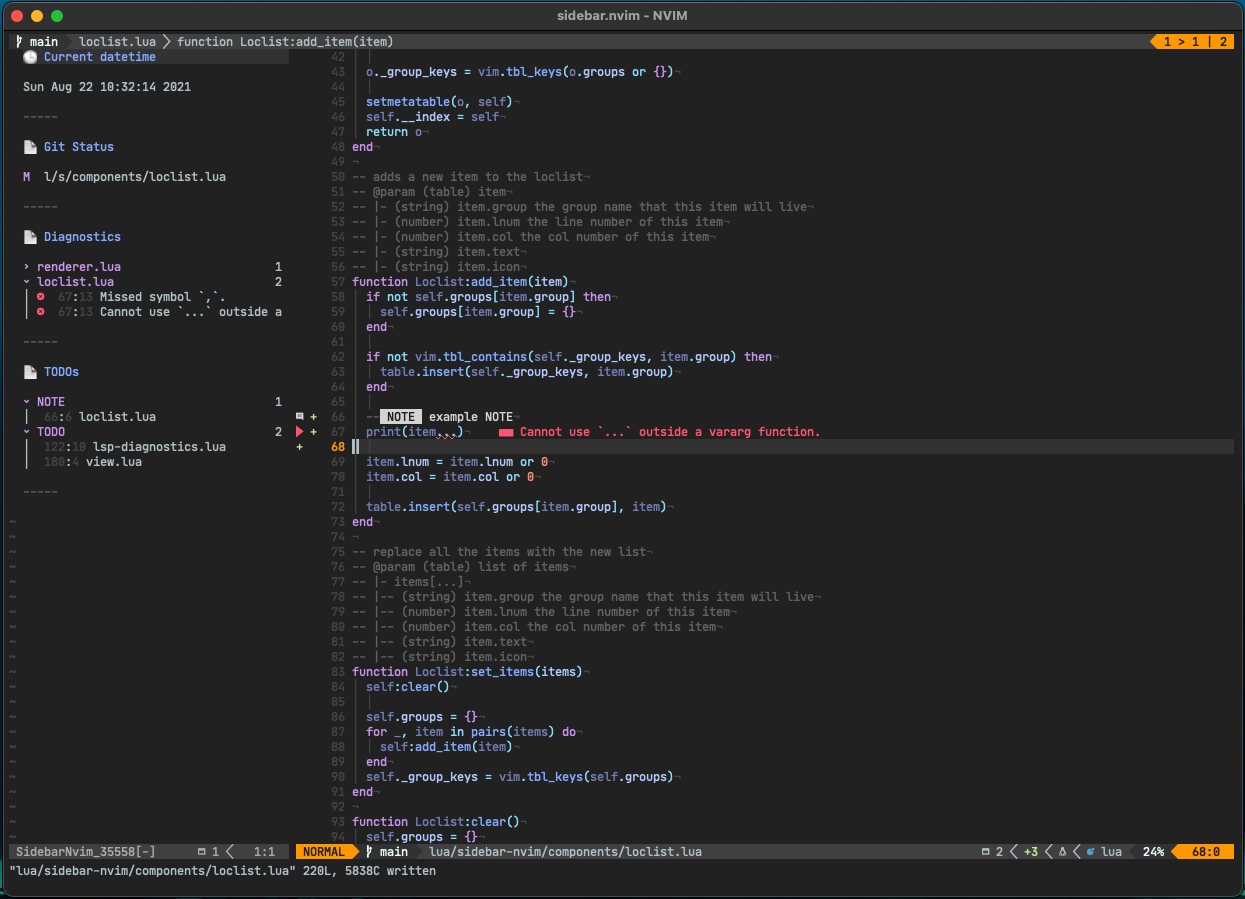
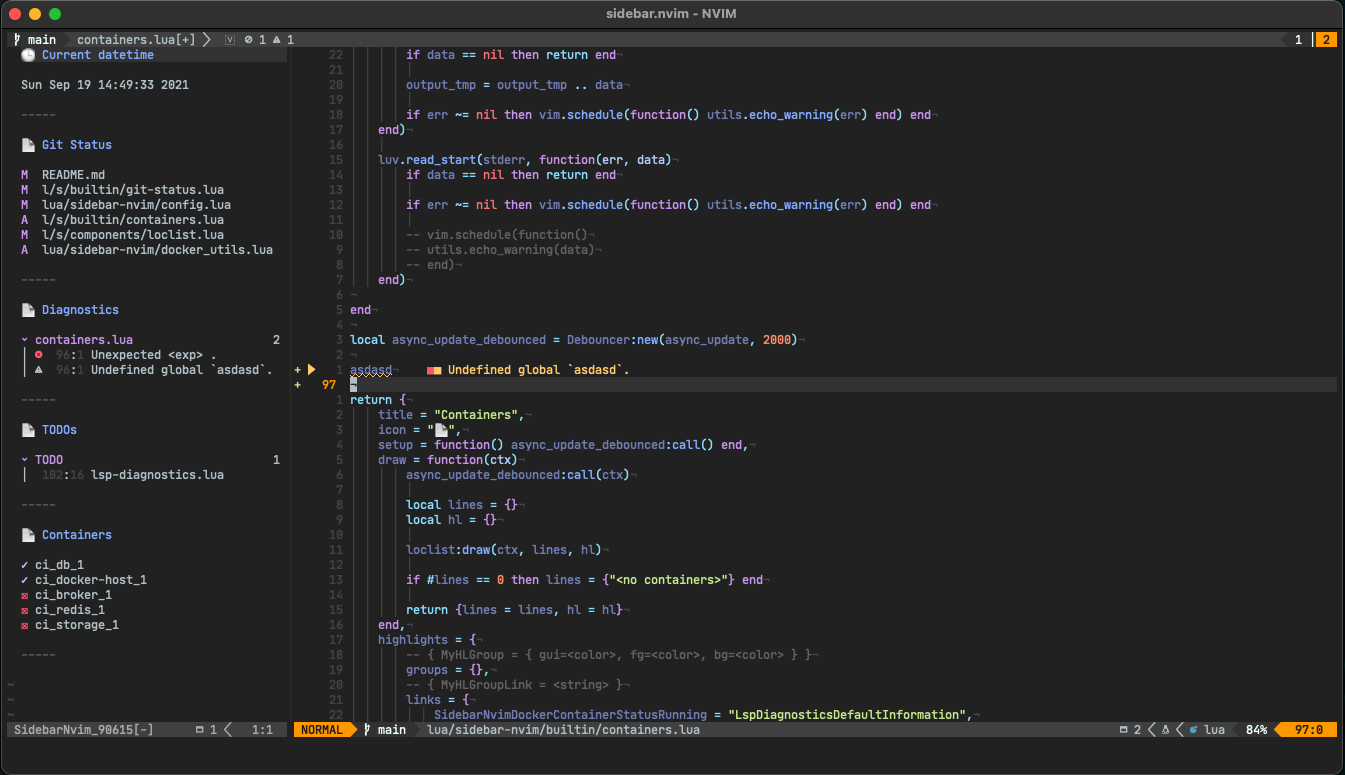
feat: containers section

Changed region(s): [[0.0, 0.0, 1.0, 1.0]]

diff --git a/README.md b/README.md
@@ -124,12 +124,39 @@ Prints the current status of the builtin lsp grouper by file. It shows only load
 
 Shows the TODOs in source. Provided by [todo-comments](https://github.com/folke/todo-comments.nvim)
 
+There are some small issues using this section see https://github.com/folke/todo-comments.nvim/pull/63
+So you might want to consider using my fork instead https://github.com/GustavoKatel/todo-comments.nvim
+
 ##### keybindings
 
 | key | when | action |
 |-----|------|--------|
 | `e` | hovering todo location | open file in the previous window at the todo position
 | `t` | hovering the group | toggle collapse on the group
+
+#### containers
+
+Shows the system docker containers. Collected from `docker ps -a --format='{{json .}}'`
+
+##### config
+
+```lua
+require("sidebar-nvim").setup({
+    ...
+    docker = {
+        use_podman = false,
+        attach_shell = "/bin/sh",
+        show_all = true, -- whether to run `docker ps` or `docker ps -a`
+    }
+    ...
+})
+```
+
+##### keybindings
+
+| key | when | action |
+|-----|------|--------|
+| `e` | hovering a container location | open a new terminal and attach to the container with `docker exec -it <container id> ${config.docker.attach_shell}`
 
 ## Custom Sections
 
@@ -299,6 +326,9 @@ return { lines = lines, hl = hl }
 | *SidebarNvimTodoFilename* | Normal |
 | *SidebarNvimTodoLineNumber* | LineNr |
 | *SidebarNvimTodoColNumber* | LineNr |
+| *SidebarNvimDockerContainerStatusRunning* | LspDiagnosticsDefaultInformation |
+| *SidebarNvimDockerContainerStatusExited* | LspDiagnosticsDefaultError |
+| *SidebarNvimDockerContainerName* | Normal |
 
 ## References
 
